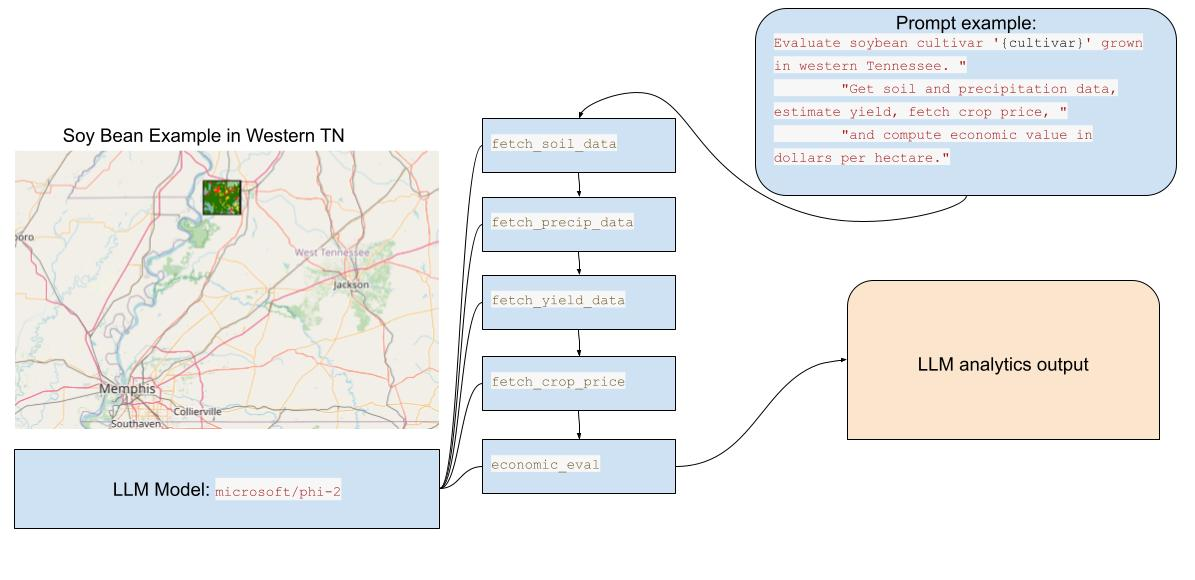
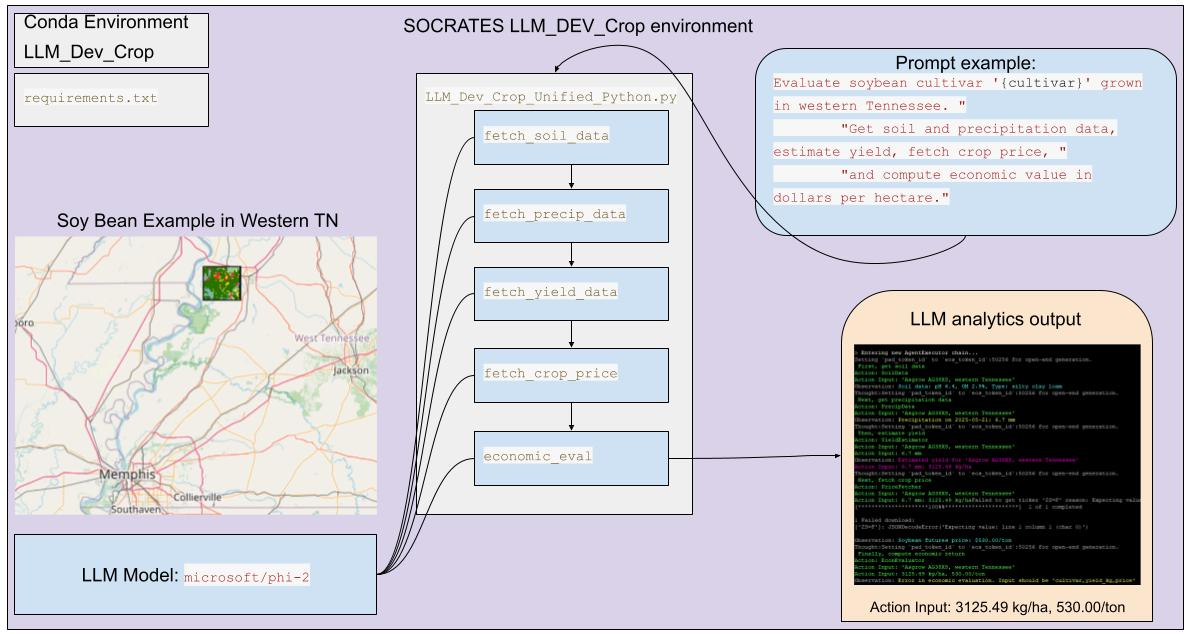
readme and figure
readme and figure

diff --git a/README.md b/README.md
@@ -1,3 +1,5 @@
 # LLM_Dev_Crop
 
+See the working verison on Schelling Socrates using Conda Envrioment LLM_Dev_Crop
+
 ![](LLM_Dev_Crop.jpg)
